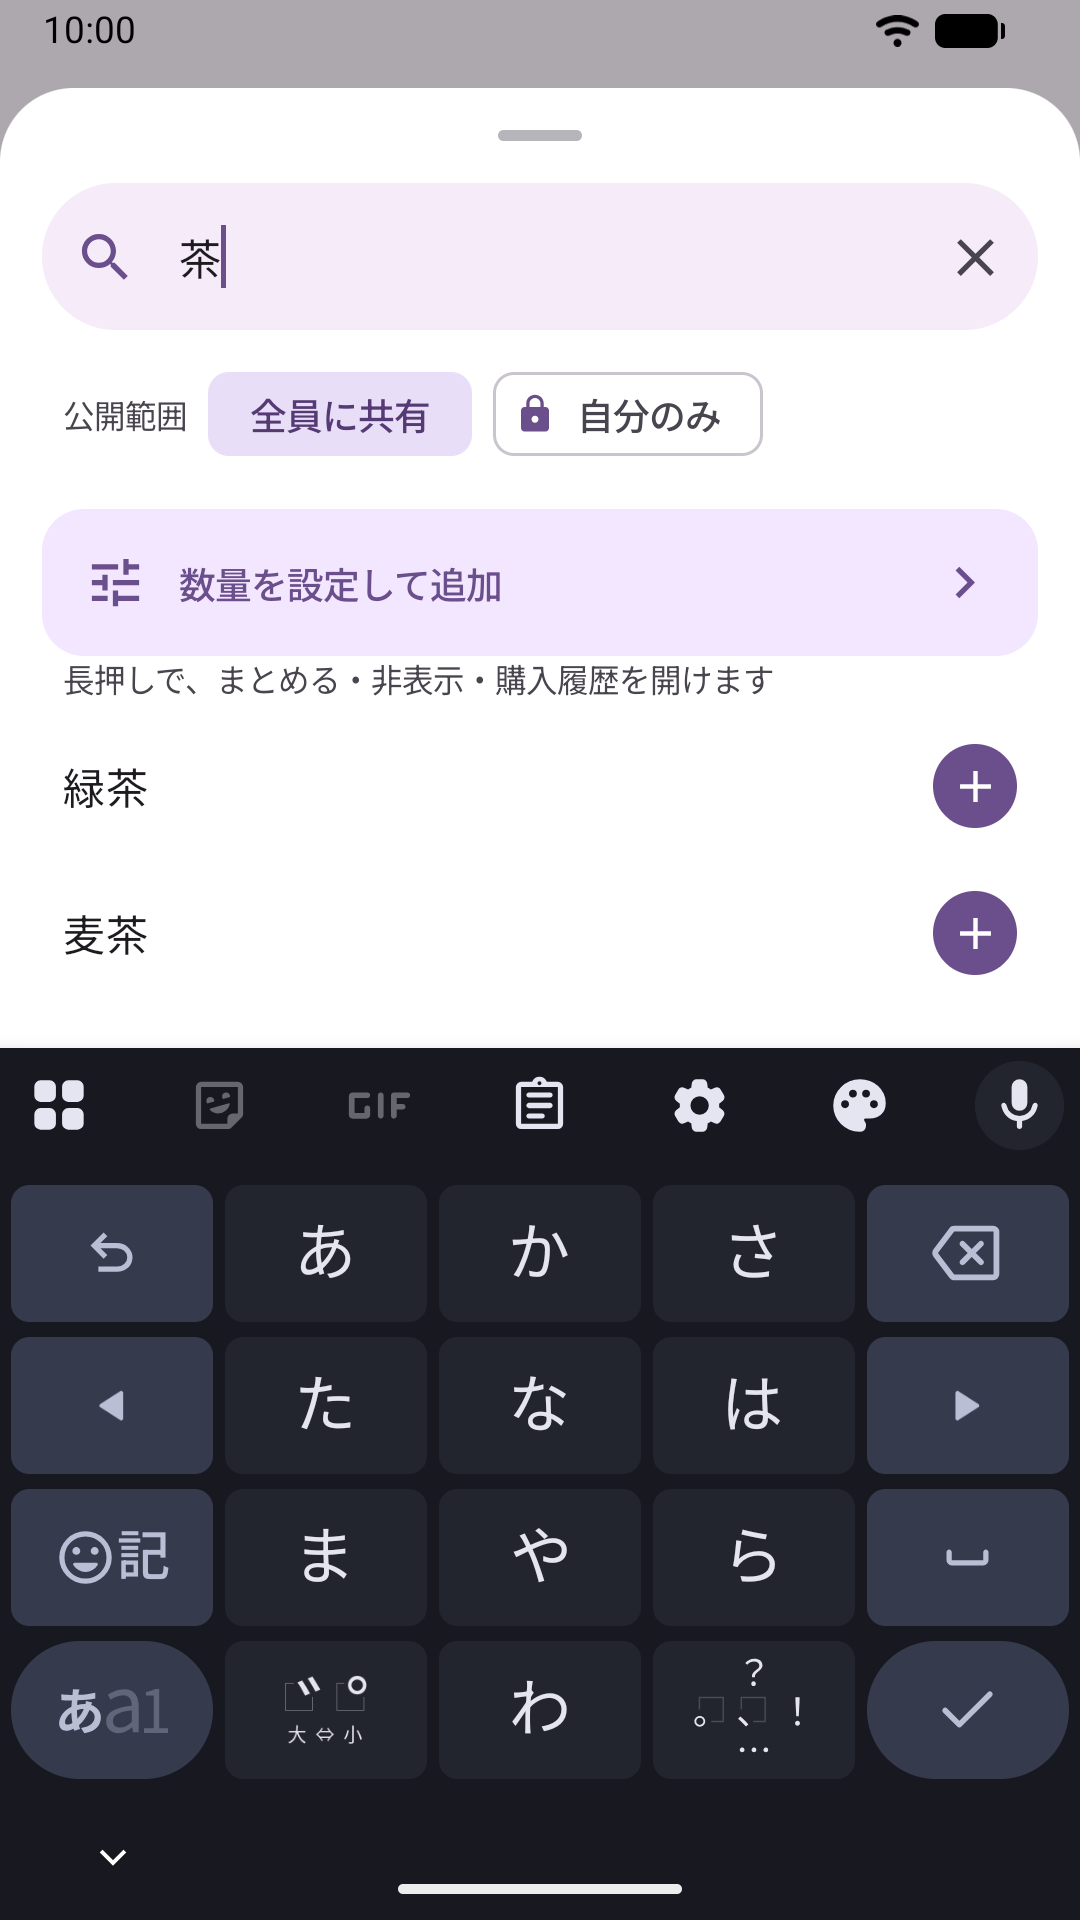
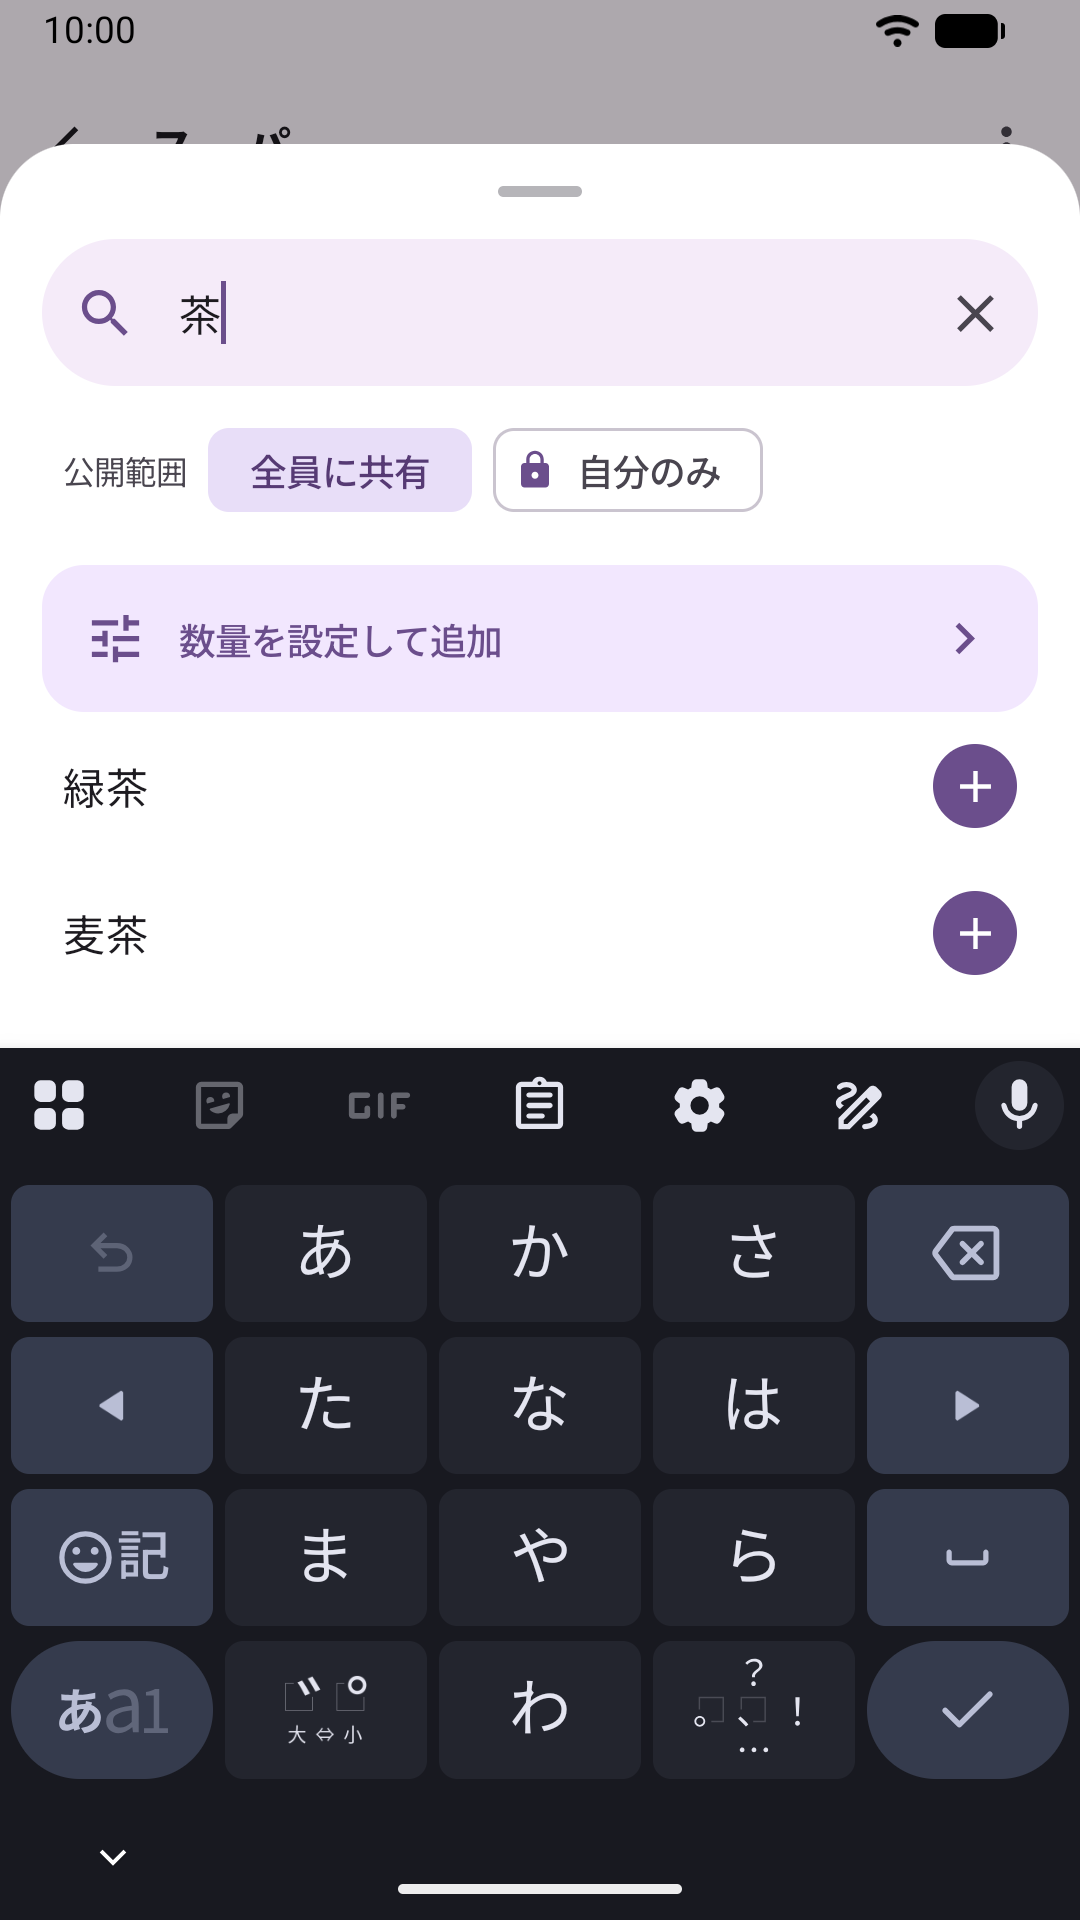
Show the long-press hint in the suggestion sheet only while the input is empty
Hide the hint while typing so that more completions fit above the
keyboard, and show it again when the input is cleared (feedback #022).

diff --git a/app/src/androidTest/java/com/cheesecomer/cartmate/ui/listdetail/ListDetailScreenTest.kt b/app/src/androidTest/java/com/cheesecomer/cartmate/ui/listdetail/ListDetailScreenTest.kt
@@ -21,6 +21,8 @@ import androidx.compose.ui.test.performScrollToNode
 import androidx.compose.ui.test.hasScrollAction
 import androidx.compose.ui.test.junit4.createAndroidComposeRule
 import androidx.compose.ui.test.onNodeWithContentDescription
+import androidx.compose.ui.test.onAllNodesWithTag
+import androidx.compose.ui.test.onAllNodesWithText
 import androidx.compose.ui.test.onNodeWithTag
 import androidx.compose.ui.test.onRoot
 import androidx.compose.ui.test.onNodeWithText
@@ -54,6 +56,7 @@ import org.junit.Rule
 import org.junit.Test
 import org.junit.runner.RunWith
 import java.time.Clock
+import java.time.Duration
 import java.time.Instant
 import java.time.LocalDate
 import java.time.format.DateTimeFormatter
@@ -244,6 +247,40 @@ class ListDetailScreenTest {
         composeRule.onNodeWithText("数量を設定して追加").assertIsDisplayed()
     }
 
+    /** 長押しの案内は未入力のときだけ出し、入力中は隠す。入力を消すとまた出す（フィードバック #022） */
+    @Test
+    fun 長押しの案内は未入力のときだけ出し_入力中は隠して_消すとまた出す() {
+        // 7日ごとに買っている牛乳を、未入力のときに時期が近い商品として出す
+        listOf(21L, 14L, 7L).forEach { daysAgo ->
+            val id = addItem("牛乳").id
+            runBlocking { store.completeItem(id, clock.instant().minus(Duration.ofDays(daysAgo))) }
+        }
+        setContent()
+        val hint = "長押しで、まとめる・非表示・購入履歴を開けます"
+
+        openSheet()
+        composeRule.waitUntil(timeoutMillis = 5_000) {
+            runCatching { composeRule.onNodeWithText("日ごと", substring = true).assertIsDisplayed() }.isSuccess
+        }
+        composeRule.onNodeWithText(hint).assertIsDisplayed()
+
+        composeRule.onNodeWithTag(AddItemTags.SHEET_INPUT).performTextInput("牛")
+        // 補完の候補に切り替わるまで待つ
+        composeRule.waitUntil(timeoutMillis = 5_000) {
+            composeRule.onAllNodesWithTag(AddItemTags.SUGGESTION).fetchSemanticsNodes().isNotEmpty() &&
+                composeRule.onAllNodesWithText("日ごと", substring = true).fetchSemanticsNodes().isEmpty()
+        }
+        composeRule.waitForIdle()
+        composeRule.onNodeWithText(hint).assertDoesNotExist()
+
+        composeRule.onNodeWithContentDescription("入力を消す").performClick()
+        composeRule.waitUntil(timeoutMillis = 5_000) {
+            runCatching { composeRule.onNodeWithText("日ごと", substring = true).assertIsDisplayed() }.isSuccess
+        }
+        composeRule.waitForIdle()
+        composeRule.onNodeWithText(hint).assertIsDisplayed()
+    }
+
     /**
      * 候補の長押しで商品の画面を開く。補完の「追加済み」には、どのリストに入っているかを添える。
      * 今日買ったばかりなので、周期が分からなくても前回の購入日を添える
@@ -262,9 +299,6 @@ class ListDetailScreenTest {
         composeRule.waitUntil(timeoutMillis = 5_000) {
             runCatching { composeRule.onNodeWithText(note).assertIsDisplayed() }.isSuccess
         }
-        // 長押しできることを、候補の一覧の上で伝える（フィードバック #014）
-        composeRule.onNodeWithText("長押しで、まとめる・非表示・購入履歴を開けます").assertIsDisplayed()
-
         composeRule.onNodeWithText(note).performTouchInput { longClick() }
         composeRule.waitForIdle()
 

diff --git a/app/src/main/java/com/cheesecomer/cartmate/ui/listdetail/AddItemBar.kt b/app/src/main/java/com/cheesecomer/cartmate/ui/listdetail/AddItemBar.kt
@@ -204,9 +204,10 @@ internal fun AddItemSheetContent(
                 )
             }
             is SheetSuggestions.Items -> if (suggestions.rows.isNotEmpty()) {
-                // 長押しで商品の画面を開けることに気づけるよう、一覧の上に案内を常に出す（フィードバック #014）。
-                // 商品のない候補（まだ買ったことのない名前）は長押しできないので、長押しできる候補があるときだけ出す
-                if (suggestions.rows.any { it.suggestion.productId != null }) {
+                // 長押しで商品の画面を開けることに気づけるよう、一覧の上に案内を出す（フィードバック #014）。
+                // 商品のない候補（まだ買ったことのない名前）は長押しできないので、長押しできる候補があるときだけ出す。
+                // 入力中は補完の候補を多く見せるため、未入力のときだけ出す（フィードバック #022）
+                if (value.text.isBlank() && suggestions.rows.any { it.suggestion.productId != null }) {
                     Text(
                         stringResource(R.string.add_item_long_press_hint),
                         style = MaterialTheme.typography.bodySmall,

diff --git a/docs/requirements.md b/docs/requirements.md
@@ -100,7 +100,7 @@
   - 未入力のときは、購入時期が近い商品と、その下によく買う商品を提示する（§4.3）。入力中は、過去の商品名から補完候補を表示する（購入周期の条件は使わない）。候補は「履歴」「予測」などに分けず、1つの一覧で表示する。
   - 入力中は、候補の上に「数量を設定して追加」を表示する（商品名は含めない）。タップすると、入力した商品名で商品詳細入力画面に進む。
   - 候補の名前の部分をタップすると、その候補の内容（商品名、前回の数量・単位）を引き継いで、商品詳細入力画面に進む。
-  - 候補の名前の部分を長押しすると、その商品（統合先）の商品名の管理の画面を開く（まとめる、非表示にする、購入履歴を見る、など）。長押しに気づけるよう、候補が出ているときは、候補の一覧の上に「長押しで、まとめる・非表示・購入履歴を開けます」と常に表示する（フィードバック #014）。開くときにシートは閉じ、戻ってもシートは開き直さない（入力した文字は商品追加欄に残す）。次にシートを開くと、候補はそのときの状態（まとめた・非表示にした結果）で出る。
+  - 候補の名前の部分を長押しすると、その商品（統合先）の商品名の管理の画面を開く（まとめる、非表示にする、購入履歴を見る、など）。長押しに気づけるよう、未入力で候補が出ているときは、候補の一覧の上に「長押しで、まとめる・非表示・購入履歴を開けます」と表示する（フィードバック #014）。入力中は表示せず、入力を消すとまた表示する（フィードバック #022）。開くときにシートは閉じ、戻ってもシートは開き直さない（入力した文字は商品追加欄に残す）。次にシートを開くと、候補はそのときの状態（まとめた・非表示にした結果）で出る。
   - 候補の右端の「＋」をタップすると、前回の数量・単位（なければ数量1・単位「個」）で、すぐにリストの末尾に追加する。
   - 商品名を入力して IME の Enter/Done を押すと、数量1・単位「個」・備考なしで、すぐにリストの末尾に追加する。シートは閉じず、入力欄を空にしてキーボードを開いたままにし、続けて次の商品を入力できる。
   - 「＋」と Enter による追加の公開範囲は、そのリストで直前に選んだ公開範囲を引き継ぐ（§3.4）。共有のリストでは、シートの入力欄の下に今の公開範囲（「全員に共有」「自分のみ」）を表示し、その場で切り替えられる。時間がたっても、どちらで追加されるかが分かるようにするため。プライベートのリストでは表示しない。

diff --git a/docs/design/ui.md b/docs/design/ui.md
@@ -97,7 +97,7 @@
 ```
 
 - 未入力のときは時期が近い商品（補足「約14日ごと・最後は16日前」。備考の属性で分けて数えた商品は「緑茶（茶葉）」のように属性を添え、「＋」で前回の備考も入れる）とその下によく買う商品（補足「4回購入・最後は12日前」）、入力中は補完候補（「追加済み（スーパー）」のように未購入の項目があるリストの名前を添える。早すぎる再購入なら「前回 10/18 に購入・いつもは約14日ごと」、周期が分からない商品を3日以内に買っていれば「前回 10/28 に購入」）を、1つの一覧で表示します。時期が近い商品もよく買う商品も出せないリストでは「商品名を入力すると候補が出ます」とだけ表示します。
-- 候補が出ているときは、公開範囲のチップの下（プライベートのリストでは入力欄の下）、候補の一覧の上に「長押しで、まとめる・非表示・購入履歴を開けます」（`bodySmall`、`onSurfaceVariant`）を常に出します。リスト一覧の「長押しで並び替えができます」と同じく、長押しの操作に気づけるようにするためです（フィードバック #014）。「商品名を入力すると候補が出ます」のときは出しません。
+- 未入力で候補が出ているときは、公開範囲のチップの下（プライベートのリストでは入力欄の下）、候補の一覧の上に「長押しで、まとめる・非表示・購入履歴を開けます」（`bodySmall`、`onSurfaceVariant`）を出します。リスト一覧の「長押しで並び替えができます」と同じく、長押しの操作に気づけるようにするためです（フィードバック #014）。入力中は出さず、入力を消すとまた出します。入力中はその分だけ候補を多く見せるためです（フィードバック #022）。「商品名を入力すると候補が出ます」のときは出しません。
 - 候補の行は、名前の部分と右端の「＋」でタップの意味が違います。「＋」は押せる範囲を 48dp にし、見える丸（primary）は 32dp にします（候補の名前より目立たせず、行を詰めて多く見せる。行の高さは最小 56dp。UI レビュー UI001-3）。
 
 `domain` モジュールの純粋な reducer（`AddItemReducer`）として実装し、JVM で全遷移をテストします。
